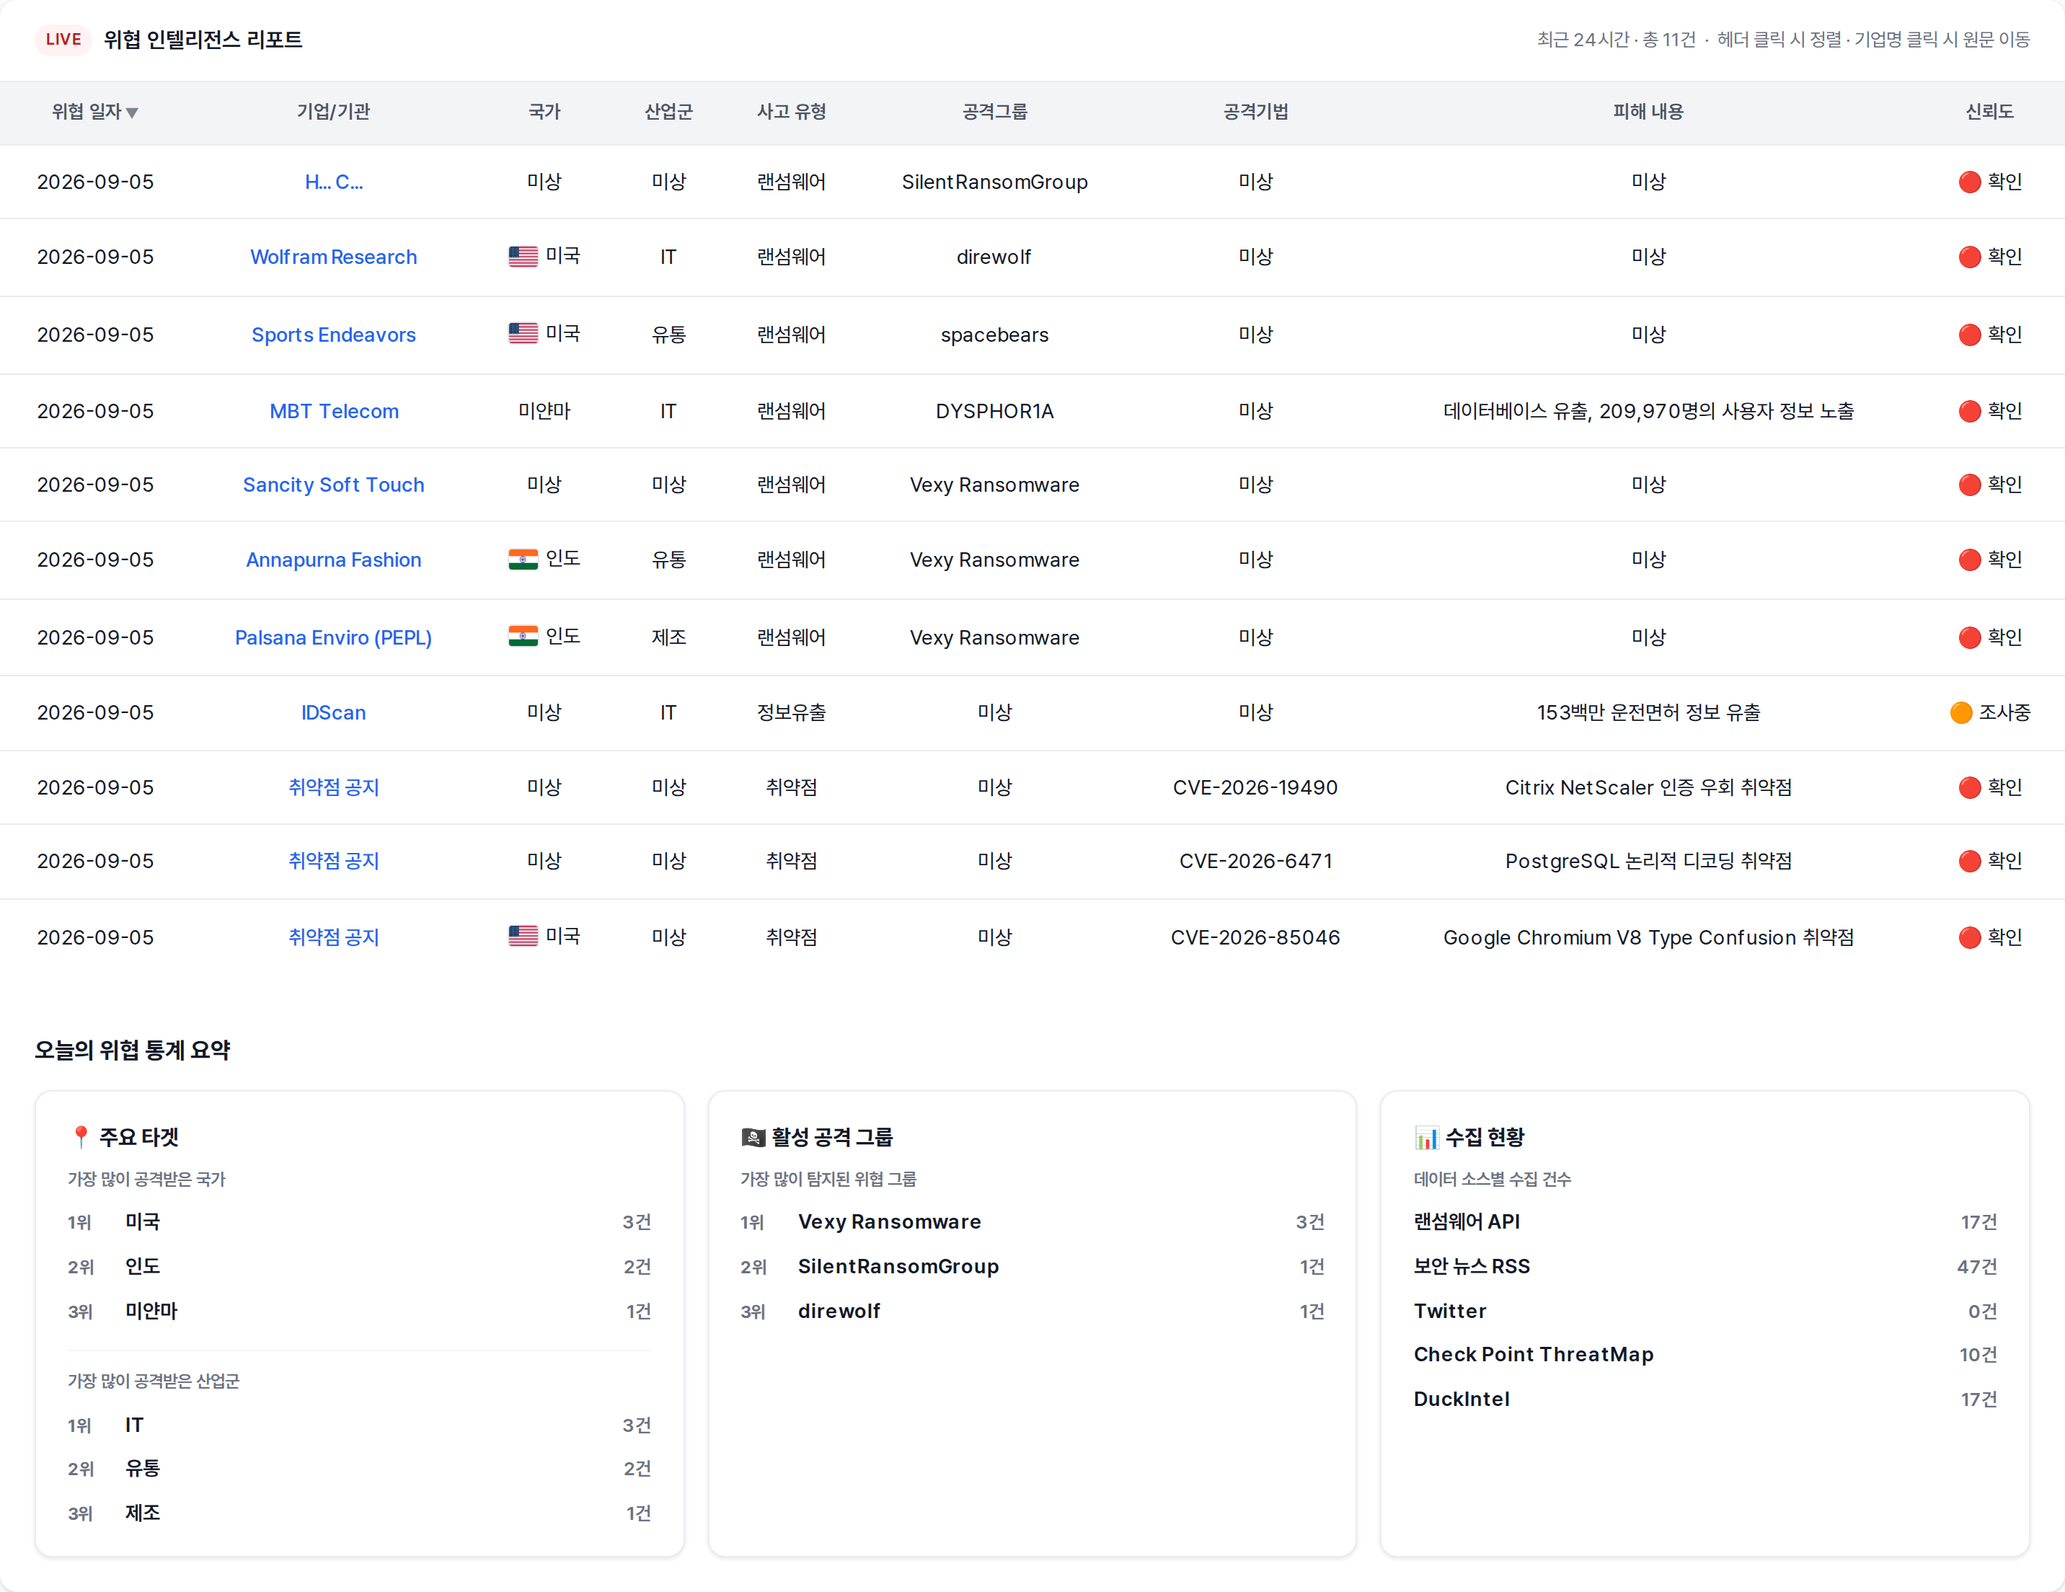
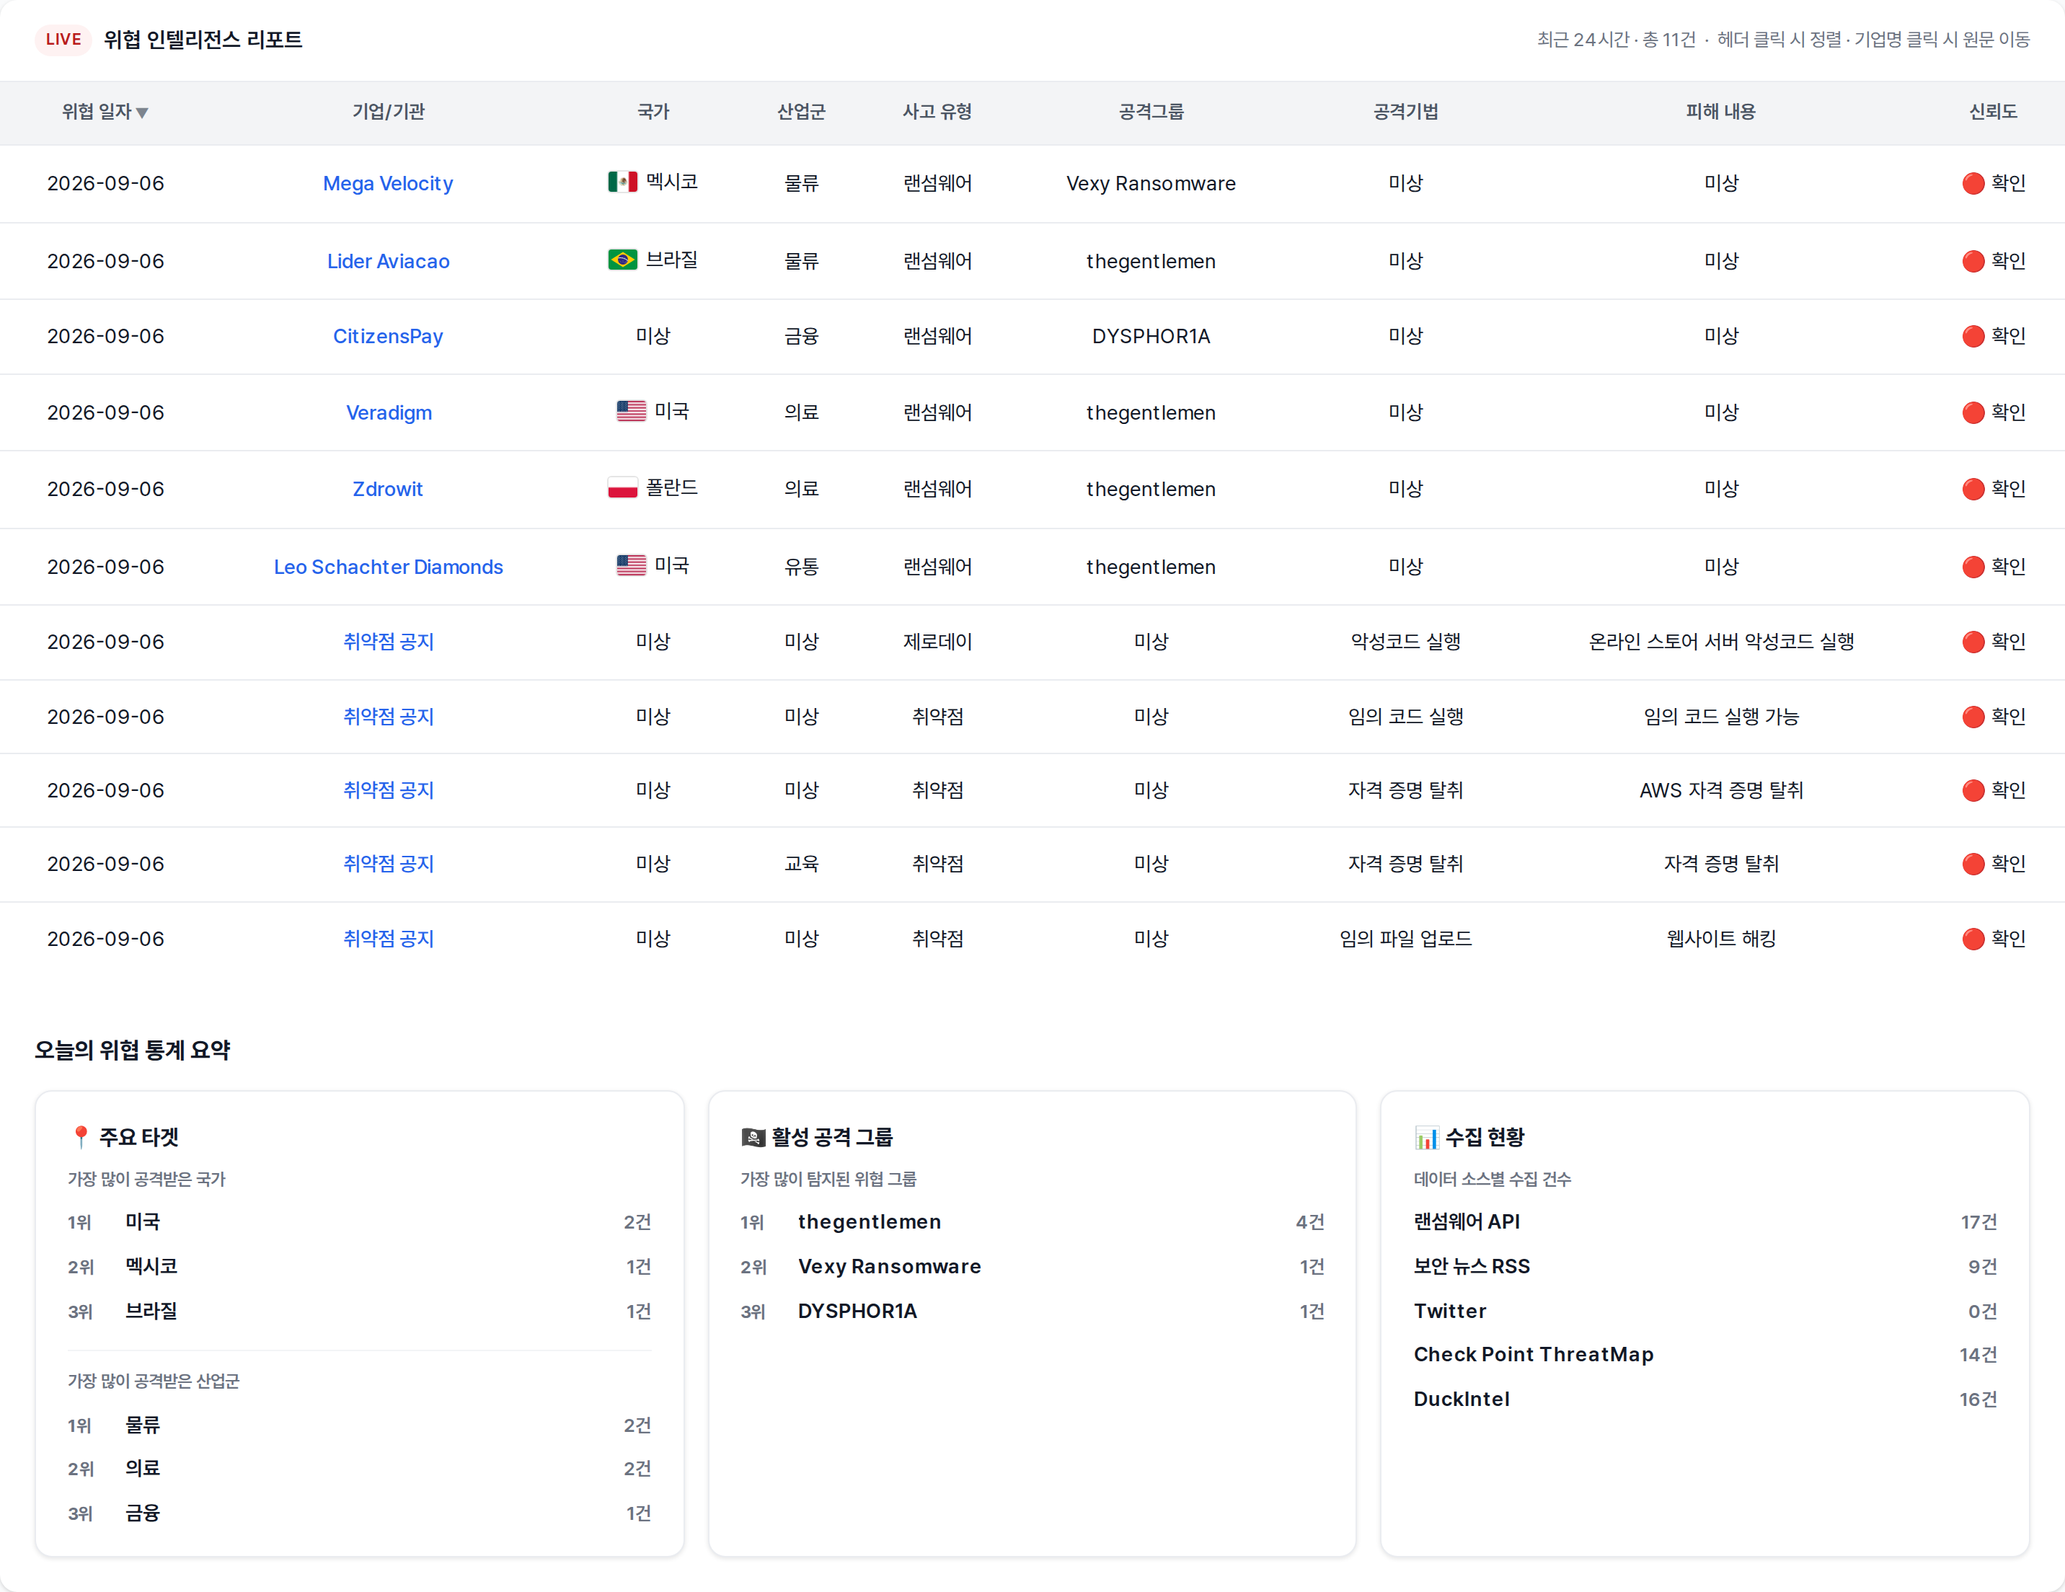
deploy: 9c533ad8fcaa3f846a31aadab046301a26f1192c

diff --git a/index.html b/index.html
@@ -3,7 +3,7 @@
 <head>
   <meta charset="UTF-8" />
   <meta name="viewport" content="width=device-width, initial-scale=1.0" />
-  <title>🚨 2026년 09월 05일 국내/해외 사이버 위협 현황</title>
+  <title>🚨 2026년 09월 06일 국내/해외 사이버 위협 현황</title>
   <link rel="preconnect" href="https://cdn.jsdelivr.net" />
   <link href="https://cdn.jsdelivr.net/gh/orioncactus/pretendard/dist/web/static/pretendard.css" rel="stylesheet" />
   <style>
@@ -253,7 +253,7 @@
 </head>
 <body>
   <div class="page-header">
-    <h1 class="page-title">🚨 2026년 09월 05일 국내/해외 사이버 위협 현황</h1>
+    <h1 class="page-title">🚨 2026년 09월 06일 국내/해외 사이버 위협 현황</h1>
   </div>
 
   <div class="dashboard">
@@ -267,17 +267,17 @@
       <table id="threat-table">
         <thead><tr><th onclick="sortTable(0)" data-col="0" class="sort-desc">위협 일자</th><th onclick="sortTable(1)" data-col="1">기업/기관</th><th onclick="sortTable(2)" data-col="2">국가</th><th onclick="sortTable(3)" data-col="3">산업군</th><th onclick="sortTable(4)" data-col="4">사고 유형</th><th onclick="sortTable(5)" data-col="5">공격그룹</th><th onclick="sortTable(6)" data-col="6">공격기법</th><th onclick="sortTable(7)" data-col="7">피해 내용</th><th onclick="sortTable(8)" data-col="8">신뢰도</th></tr></thead>
         <tbody>
-<tr><td>2026-09-05</td><td><a href="https://www.ransomware.live/id/SC4uLiBDLi4uQFNpbGVudFJhbnNvbUdyb3Vw" target="_blank" rel="noopener noreferrer">H... C...</a></td><td class="country"><span class="country-cell">미상</span></td><td>미상</td><td>랜섬웨어</td><td>SilentRansomGroup</td><td>미상</td><td>미상</td><td>🔴 확인</td></tr>
-<tr><td>2026-09-05</td><td><a href="https://www.ransomware.live/id/V29sZnJhbSBSZXNlYXJjaEBkaXJld29sZg==" target="_blank" rel="noopener noreferrer">Wolfram Research</a></td><td class="country"><span class="country-cell"><img class="flag" src="https://flagcdn.com/w40/us.png" alt="미국" width="20" height="14" />미국</span></td><td>IT</td><td>랜섬웨어</td><td>direwolf</td><td>미상</td><td>미상</td><td>🔴 확인</td></tr>
-<tr><td>2026-09-05</td><td><a href="https://www.ransomware.live/id/U3BvcnRzIEVuZGVhdm9yc0BzcGFjZWJlYXJz" target="_blank" rel="noopener noreferrer">Sports Endeavors</a></td><td class="country"><span class="country-cell"><img class="flag" src="https://flagcdn.com/w40/us.png" alt="미국" width="20" height="14" />미국</span></td><td>유통</td><td>랜섬웨어</td><td>spacebears</td><td>미상</td><td>미상</td><td>🔴 확인</td></tr>
-<tr><td>2026-09-05</td><td><a href="https://www.ransomware.live/id/TUJUIFRlbGVjb21ARFlTUEhPUjFB" target="_blank" rel="noopener noreferrer">MBT Telecom</a></td><td class="country"><span class="country-cell">미얀마</span></td><td>IT</td><td>랜섬웨어</td><td>DYSPHOR1A</td><td>미상</td><td>데이터베이스 유출, 209,970명의 사용자 정보 노출</td><td>🔴 확인</td></tr>
-<tr><td>2026-09-05</td><td><a href="https://www.ransomware.live/id/U2FuY2l0eSBTb2Z0IFRvdWNoQFZleHkgUmFuc29td2FyZQ==" target="_blank" rel="noopener noreferrer">Sancity Soft Touch</a></td><td class="country"><span class="country-cell">미상</span></td><td>미상</td><td>랜섬웨어</td><td>Vexy Ransomware</td><td>미상</td><td>미상</td><td>🔴 확인</td></tr>
-<tr><td>2026-09-05</td><td><a href="https://www.ransomware.live/id/QW5uYXB1cm5hIEZhc2hpb25AVmV4eSBSYW5zb213YXJl" target="_blank" rel="noopener noreferrer">Annapurna Fashion</a></td><td class="country"><span class="country-cell"><img class="flag" src="https://flagcdn.com/w40/in.png" alt="인도" width="20" height="14" />인도</span></td><td>유통</td><td>랜섬웨어</td><td>Vexy Ransomware</td><td>미상</td><td>미상</td><td>🔴 확인</td></tr>
-<tr><td>2026-09-05</td><td><a href="https://www.ransomware.live/id/UGFsc2FuYSBFbnZpcm8gKFBFUEwpQFZleHkgUmFuc29td2FyZQ==" target="_blank" rel="noopener noreferrer">Palsana Enviro (PEPL)</a></td><td class="country"><span class="country-cell"><img class="flag" src="https://flagcdn.com/w40/in.png" alt="인도" width="20" height="14" />인도</span></td><td>제조</td><td>랜섬웨어</td><td>Vexy Ransomware</td><td>미상</td><td>미상</td><td>🔴 확인</td></tr>
-<tr><td>2026-09-05</td><td><a href="https://www.bleepingcomputer.com/news/security/idscan-sued-over-alleged-data-breach-affecting-153-million-drivers/" target="_blank" rel="noopener noreferrer">IDScan</a></td><td class="country"><span class="country-cell">미상</span></td><td>IT</td><td>정보유출</td><td>미상</td><td>미상</td><td>153백만 운전면허 정보 유출</td><td>🟠 조사중</td></tr>
-<tr><td>2026-09-05</td><td><a href="https://www.bleepingcomputer.com/news/security/hackers-target-critical-citrix-netscaler-auth-bypass-in-attacks/" target="_blank" rel="noopener noreferrer">취약점 공지</a></td><td class="country"><span class="country-cell">미상</span></td><td>미상</td><td>취약점</td><td>미상</td><td>CVE-2026-19490</td><td>Citrix NetScaler 인증 우회 취약점</td><td>🔴 확인</td></tr>
-<tr><td>2026-09-05</td><td><a href="https://thehackernews.com/2026/09/postgresql-fixes-12-year-old-logical.html" target="_blank" rel="noopener noreferrer">취약점 공지</a></td><td class="country"><span class="country-cell">미상</span></td><td>미상</td><td>취약점</td><td>미상</td><td>CVE-2026-6471</td><td>PostgreSQL 논리적 디코딩 취약점</td><td>🔴 확인</td></tr>
-<tr><td>2026-09-05</td><td><a href="https://nvd.nist.gov/vuln/detail/CVE-2026-85046" target="_blank" rel="noopener noreferrer">취약점 공지</a></td><td class="country"><span class="country-cell"><img class="flag" src="https://flagcdn.com/w40/us.png" alt="미국" width="20" height="14" />미국</span></td><td>미상</td><td>취약점</td><td>미상</td><td>CVE-2026-85046</td><td>Google Chromium V8 Type Confusion 취약점</td><td>🔴 확인</td></tr>
+<tr><td>2026-09-06</td><td><a href="https://www.ransomware.live/id/TWVnYSBWZWxvY2l0eUBWZXh5IFJhbnNvbXdhcmU=" target="_blank" rel="noopener noreferrer">Mega Velocity</a></td><td class="country"><span class="country-cell"><img class="flag" src="https://flagcdn.com/w40/mx.png" alt="멕시코" width="20" height="14" />멕시코</span></td><td>물류</td><td>랜섬웨어</td><td>Vexy Ransomware</td><td>미상</td><td>미상</td><td>🔴 확인</td></tr>
+<tr><td>2026-09-06</td><td><a href="https://www.ransomware.live/id/TGlkZXIgQXZpYWNhb0B0aGVnZW50bGVtZW4=" target="_blank" rel="noopener noreferrer">Lider Aviacao</a></td><td class="country"><span class="country-cell"><img class="flag" src="https://flagcdn.com/w40/br.png" alt="브라질" width="20" height="14" />브라질</span></td><td>물류</td><td>랜섬웨어</td><td>thegentlemen</td><td>미상</td><td>미상</td><td>🔴 확인</td></tr>
+<tr><td>2026-09-06</td><td><a href="https://www.ransomware.live/id/Q2l0aXplbnNQYXlARFlTUEhPUjFB" target="_blank" rel="noopener noreferrer">CitizensPay</a></td><td class="country"><span class="country-cell">미상</span></td><td>금융</td><td>랜섬웨어</td><td>DYSPHOR1A</td><td>미상</td><td>미상</td><td>🔴 확인</td></tr>
+<tr><td>2026-09-06</td><td><a href="https://www.ransomware.live/id/VmVyYWRpZ21AdGhlZ2VudGxlbWVu" target="_blank" rel="noopener noreferrer">Veradigm</a></td><td class="country"><span class="country-cell"><img class="flag" src="https://flagcdn.com/w40/us.png" alt="미국" width="20" height="14" />미국</span></td><td>의료</td><td>랜섬웨어</td><td>thegentlemen</td><td>미상</td><td>미상</td><td>🔴 확인</td></tr>
+<tr><td>2026-09-06</td><td><a href="https://www.ransomware.live/id/WmRyb3dpdEB0aGVnZW50bGVtZW4=" target="_blank" rel="noopener noreferrer">Zdrowit</a></td><td class="country"><span class="country-cell"><img class="flag" src="https://flagcdn.com/w40/pl.png" alt="폴란드" width="20" height="14" />폴란드</span></td><td>의료</td><td>랜섬웨어</td><td>thegentlemen</td><td>미상</td><td>미상</td><td>🔴 확인</td></tr>
+<tr><td>2026-09-06</td><td><a href="https://www.ransomware.live/id/TGVvIFNjaGFjaHRlciBEaWFtb25kc0B0aGVnZW50bGVtZW4=" target="_blank" rel="noopener noreferrer">Leo Schachter Diamonds</a></td><td class="country"><span class="country-cell"><img class="flag" src="https://flagcdn.com/w40/us.png" alt="미국" width="20" height="14" />미국</span></td><td>유통</td><td>랜섬웨어</td><td>thegentlemen</td><td>미상</td><td>미상</td><td>🔴 확인</td></tr>
+<tr><td>2026-09-06</td><td><a href="https://thehackernews.com/2026/09/unpatched-magento-and-adobe-commerce.html" target="_blank" rel="noopener noreferrer">취약점 공지</a></td><td class="country"><span class="country-cell">미상</span></td><td>미상</td><td>제로데이</td><td>미상</td><td>악성코드 실행</td><td>온라인 스토어 서버 악성코드 실행</td><td>🔴 확인</td></tr>
+<tr><td>2026-09-06</td><td><a href="https://thehackernews.com/2026/09/critical-vmware-workstation-and-fusion.html" target="_blank" rel="noopener noreferrer">취약점 공지</a></td><td class="country"><span class="country-cell">미상</span></td><td>미상</td><td>취약점</td><td>미상</td><td>임의 코드 실행</td><td>임의 코드 실행 가능</td><td>🔴 확인</td></tr>
+<tr><td>2026-09-06</td><td><a href="https://thehackernews.com/2026/09/attackers-breached-jetbrains-cadence.html" target="_blank" rel="noopener noreferrer">취약점 공지</a></td><td class="country"><span class="country-cell">미상</span></td><td>미상</td><td>취약점</td><td>미상</td><td>자격 증명 탈취</td><td>AWS 자격 증명 탈취</td><td>🔴 확인</td></tr>
+<tr><td>2026-09-06</td><td><a href="https://thehackernews.com/2026/09/attackers-exploit-papercut-flaws-to.html" target="_blank" rel="noopener noreferrer">취약점 공지</a></td><td class="country"><span class="country-cell">미상</span></td><td>교육</td><td>취약점</td><td>미상</td><td>자격 증명 탈취</td><td>자격 증명 탈취</td><td>🔴 확인</td></tr>
+<tr><td>2026-09-06</td><td><a href="https://www.securityweek.com/elementor-pro-wordpress-plugin-vulnerability-exploited-to-hack-sites/" target="_blank" rel="noopener noreferrer">취약점 공지</a></td><td class="country"><span class="country-cell">미상</span></td><td>미상</td><td>취약점</td><td>미상</td><td>임의 파일 업로드</td><td>웹사이트 해킹</td><td>🔴 확인</td></tr>
         </tbody>
       </table>
     </div>
@@ -288,19 +288,19 @@
       <article class="stat-card">
         <h3 class="stat-title">📍 주요 타겟</h3>
         <p class="stat-subtitle">가장 많이 공격받은 국가</p>
-        <ol class="stat-list"><li><span class="stat-rank">1위</span><span class="stat-name">미국</span><span class="stat-count">3건</span></li><li><span class="stat-rank">2위</span><span class="stat-name">인도</span><span class="stat-count">2건</span></li><li><span class="stat-rank">3위</span><span class="stat-name">미얀마</span><span class="stat-count">1건</span></li></ol>
+        <ol class="stat-list"><li><span class="stat-rank">1위</span><span class="stat-name">미국</span><span class="stat-count">2건</span></li><li><span class="stat-rank">2위</span><span class="stat-name">멕시코</span><span class="stat-count">1건</span></li><li><span class="stat-rank">3위</span><span class="stat-name">브라질</span><span class="stat-count">1건</span></li></ol>
         <p class="stat-subtitle stat-subtitle-gap">가장 많이 공격받은 산업군</p>
-        <ol class="stat-list"><li><span class="stat-rank">1위</span><span class="stat-name">IT</span><span class="stat-count">3건</span></li><li><span class="stat-rank">2위</span><span class="stat-name">유통</span><span class="stat-count">2건</span></li><li><span class="stat-rank">3위</span><span class="stat-name">제조</span><span class="stat-count">1건</span></li></ol>
+        <ol class="stat-list"><li><span class="stat-rank">1위</span><span class="stat-name">물류</span><span class="stat-count">2건</span></li><li><span class="stat-rank">2위</span><span class="stat-name">의료</span><span class="stat-count">2건</span></li><li><span class="stat-rank">3위</span><span class="stat-name">금융</span><span class="stat-count">1건</span></li></ol>
       </article>
       <article class="stat-card">
         <h3 class="stat-title">🏴☠ 활성 공격 그룹</h3>
         <p class="stat-subtitle">가장 많이 탐지된 위협 그룹</p>
-        <ol class="stat-list"><li><span class="stat-rank">1위</span><span class="stat-name">Vexy Ransomware</span><span class="stat-count">3건</span></li><li><span class="stat-rank">2위</span><span class="stat-name">SilentRansomGroup</span><span class="stat-count">1건</span></li><li><span class="stat-rank">3위</span><span class="stat-name">direwolf</span><span class="stat-count">1건</span></li></ol>
+        <ol class="stat-list"><li><span class="stat-rank">1위</span><span class="stat-name">thegentlemen</span><span class="stat-count">4건</span></li><li><span class="stat-rank">2위</span><span class="stat-name">Vexy Ransomware</span><span class="stat-count">1건</span></li><li><span class="stat-rank">3위</span><span class="stat-name">DYSPHOR1A</span><span class="stat-count">1건</span></li></ol>
       </article>
       <article class="stat-card">
         <h3 class="stat-title">📊 수집 현황</h3>
         <p class="stat-subtitle">데이터 소스별 수집 건수</p>
-        <ul class="stat-list stat-sources"><li><span class="stat-name">랜섬웨어 API</span><span class="stat-count">17건</span></li><li><span class="stat-name">보안 뉴스 RSS</span><span class="stat-count">47건</span></li><li><span class="stat-name">Twitter</span><span class="stat-count">0건</span></li><li><span class="stat-name">Check Point ThreatMap</span><span class="stat-count">10건</span></li><li><span class="stat-name">DuckIntel</span><span class="stat-count">17건</span></li></ul>
+        <ul class="stat-list stat-sources"><li><span class="stat-name">랜섬웨어 API</span><span class="stat-count">17건</span></li><li><span class="stat-name">보안 뉴스 RSS</span><span class="stat-count">9건</span></li><li><span class="stat-name">Twitter</span><span class="stat-count">0건</span></li><li><span class="stat-name">Check Point ThreatMap</span><span class="stat-count">14건</span></li><li><span class="stat-name">DuckIntel</span><span class="stat-count">16건</span></li></ul>
       </article>
     </div>
   </section>
